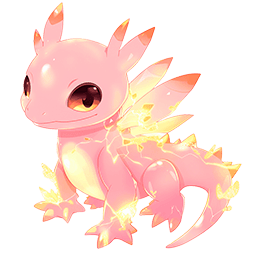
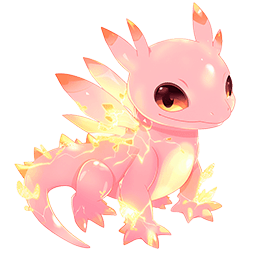
new creatures

diff --git a/front/src/database/locationsLib.js b/front/src/database/locationsLib.js
@@ -185,7 +185,7 @@ export const locationsLib = {
                         enemyCount: [2, 3],
                         enemyLevel: [1, 3],
                         type: 'exploration_battle',
-                        comment: '70%: 2-3 существа (ур. 1-3) | Игрок: до 3 сущ. (макс. ур. 5)'
+                        comment: '70%: 2-3 существа (ур. 1-3)'
                     }
                 },
                 {
@@ -195,7 +195,7 @@ export const locationsLib = {
                         enemyCount: [2, 2],
                         enemyLevel: [4, 5],
                         type: 'exploration_battle',
-                        comment: '25%: 1 существо + 1 элит (ур. 4-5) | Игрок: до 2 сущ. (макс. ур. 7)'
+                        comment: '25%: 1 существо + 1 элит (ур. 4-5)'
                     }
                 },
                 {
@@ -205,7 +205,7 @@ export const locationsLib = {
                         enemyCount: [4, 4],
                         enemyLevel: [2, 4],
                         type: 'exploration_battle',
-                        comment: '25%: 1 существо + 1 элит (ур. 4-5) | Игрок: до 2 сущ. (макс. ур. 7)'
+                        comment: '25%: 1 существо + 1 элит (ур. 4-5)'
                     }
                 },
             ]
@@ -249,7 +249,7 @@ export const locationsLib = {
                         enemyCount: [2, 3],
                         enemyLevel: [1, 3],
                         type: 'exploration_battle',
-                        comment: '70%: 2-3 существа (ур. 1-3) | Игрок: до 3 сущ. (макс. ур. 5)'
+                        comment: '70%: 2-3 существа (ур. 1-3)'
                     }
                 },
                 {
@@ -259,7 +259,8 @@ export const locationsLib = {
                         enemyCount: [2, 2],
                         enemyLevel: [4, 5],
                         type: 'exploration_battle',
-                        comment: '25%: 1 существо + 1 элит (ур. 4-5) | Игрок: до 2 сущ. (макс. ур. 7)'
+                        comment: '25%: 1 существо + 1 элит (ур. 4-5)',
+                        enemies: [{rarity: 'rare'}]
                     }
                 },
                 {
@@ -269,7 +270,8 @@ export const locationsLib = {
                         enemyCount: [4, 4],
                         enemyLevel: [2, 4],
                         type: 'exploration_battle',
-                        comment: '25%: 1 существо + 1 элит (ур. 4-5) | Игрок: до 2 сущ. (макс. ур. 7)'
+                        comment: '5%: 4 существа элит (ур. 2-4)',
+                        enemies: [{rarity: 'rare'},{rarity: 'rare'},{rarity: 'rare'},{rarity: 'rare'}]
                     }
                 },
             ]
@@ -302,7 +304,7 @@ export const locationsLib = {
                         enemyCount: [4, 5],
                         enemyLevel: [6, 8],
                         type: 'exploration_battle',
-                        comment: '60%: 4-5 существ (ур. 6-8) | Игрок: до 5 сущ. (макс. ур. 10)'
+                        comment: '60%: 4-5 существ (ур. 6-8)'
                     }
                 },
                 {
@@ -312,7 +314,7 @@ export const locationsLib = {
                         enemyCount: [3, 3],
                         enemyLevel: [9, 10],
                         type: 'exploration_battle',
-                        comment: '30%: 3 элита (ур. 9-10) | Игрок: до 4 сущ. (макс. ур. 12)'
+                        comment: '30%: 3 элита (ур. 9-10)'
                     }
                 },
                 {
@@ -322,7 +324,7 @@ export const locationsLib = {
                         enemyCount: [1, 1],
                         enemyLevel: [12, 12],
                         type: 'exploration_battle',
-                        comment: '10%: 1 уникальный (ур. 12) | Игрок: до 2 сущ. (макс. ур. 15)'
+                        comment: '10%: 1 уникальный (ур. 12)'
                     }
                 },
             ]
@@ -363,7 +365,7 @@ export const locationsLib = {
                         enemyCount: [3, 4],
                         enemyLevel: [3, 5],
                         type: 'exploration_battle',
-                        comment: '60%: 3-4 существа (ур. 3-5) | Игрок: до 4 сущ. (макс. ур. 7)'
+                        comment: '60%: 3-4 существа (ур. 3-5)'
                     }
                 },
                 {
@@ -373,7 +375,7 @@ export const locationsLib = {
                         enemyCount: [2, 2],
                         enemyLevel: [6, 6],
                         type: 'exploration_battle',
-                        comment: '30%: 2 элита (ур. 6) | Игрок: до 3 сущ. (макс. ур. 8)'
+                        comment: '30%: 2 элита (ур. 6)'
                     }
                 },
                 {
@@ -383,7 +385,7 @@ export const locationsLib = {
                         enemyCount: [3, 3],
                         enemyLevel: [3, 7],
                         type: 'exploration_battle',
-                        comment: '10%: 1 сильный + 2 обычных (ур. 7/3) | Игрок: до 3 сущ. (макс. ур. 9)'
+                        comment: '10%: 1 сильный + 2 обычных (ур. 7/3)'
                     }
                 },
             ]
@@ -420,7 +422,7 @@ export const locationsLib = {
                         enemyCount: [5, 6],
                         enemyLevel: [11, 13],
                         type: 'exploration_battle',
-                        comment: '50%: 5-6 существ (ур. 11-13) | Игрок: до 6 сущ. (макс. ур. 15)'
+                        comment: '50%: 5-6 существ (ур. 11-13)'
                     }
                 },
                 {
@@ -430,7 +432,7 @@ export const locationsLib = {
                         enemyCount: [4, 4],
                         enemyLevel: [14, 15],
                         type: 'exploration_battle',
-                        comment: '40%: 4 элита (ур. 14-15) | Игрок: до 5 сущ. (макс. ур. 17)'
+                        comment: '40%: 4 элита (ур. 14-15)'
                     }
                 },
                 {
@@ -440,7 +442,7 @@ export const locationsLib = {
                         enemyCount: [1, 1],
                         enemyLevel: [18, 18],
                         type: 'exploration_battle',
-                        comment: '10%: 1 уникальный (ур. 18) | Игрок: до 3 сущ. (макс. ур. 20)'
+                        comment: '10%: 1 уникальный (ур. 18)'
                     }
                 },
             ]
@@ -473,7 +475,7 @@ export const locationsLib = {
                         enemyCount: [5, 6],
                         enemyLevel: [20, 22],
                         type: 'exploration_battle',
-                        comment: '50%: 5-6 существ (ур. 20-22) | Игрок: до 6 сущ. (макс. ур. 24)'
+                        comment: '50%: 5-6 существ (ур. 20-22)'
                     }
                 },
                 {
@@ -483,7 +485,7 @@ export const locationsLib = {
                         enemyCount: [4, 4],
                         enemyLevel: [23, 24],
                         type: 'exploration_battle',
-                        comment: '40%: 4 уникальных (ур. 23-24) | Игрок: до 5 сущ. (макс. ур. 26)'
+                        comment: '40%: 4 уникальных (ур. 23-24)'
                     }
                 },
                 {
@@ -493,7 +495,7 @@ export const locationsLib = {
                         enemyCount: [1, 1],
                         enemyLevel: [25, 25],
                         type: 'exploration_battle',
-                        comment: '10%: 1 легендарный (ур. 25) | Игрок: до 3 сущ. (макс. ур. 28)'
+                        comment: '10%: 1 легендарный (ур. 25)'
                     }
                 },
             ]
@@ -528,7 +530,7 @@ export const locationsLib = {
                         enemyCount: [5, 5],
                         enemyLevel: [13, 15],
                         type: 'exploration_battle',
-                        comment: '40% | 5 существ | ур. 13-15| игрок: до 5 сущ., макс. ур. 17'
+                        comment: '40% | 5 существ | ур. 13-15'
                     }
                 },
                 {
@@ -538,7 +540,7 @@ export const locationsLib = {
                         enemyCount: [6, 6],
                         enemyLevel: [14, 16],
                         type: 'exploration_battle',
-                        comment: '40% | 6 существ | ур. 14-16| игрок: до 6 сущ., макс. ур. 18'
+                        comment: '40% | 6 существ | ур. 14-16'
                     }
                 },
                 {
@@ -548,7 +550,7 @@ export const locationsLib = {
                         enemyCount: [1, 1],
                         enemyLevel: [15, 17],
                         type: 'exploration_battle',
-                        comment: '20% | 4 существа| ур. 15-17| игрок: до 4 сущ., макс. ур. 19'
+                        comment: '20% | 4 существа| ур. 15-17'
                     }
                 },
             ]
@@ -581,7 +583,7 @@ export const locationsLib = {
                         enemyCount: [6, 6],
                         enemyLevel: [26, 28],
                         type: 'exploration_battle',
-                        comment: '70%: 6 существ (ур. 26-28) | Игрок: до 6 сущ. (макс. ур. 30)'
+                        comment: '70%: 6 существ (ур. 26-28)'
                     }
                 },
                 {
@@ -591,7 +593,7 @@ export const locationsLib = {
                         enemyCount: [3, 3],
                         enemyLevel: [29, 29],
                         type: 'exploration_battle',
-                        comment: '25%: 3 легендарных (ур. 29) | Игрок: до 4 сущ. (макс. ур. 30)'
+                        comment: '25%: 3 легендарных (ур. 29)'
                     }
                 },
                 {
@@ -601,7 +603,7 @@ export const locationsLib = {
                         enemyCount: [1, 1],
                         enemyLevel: [30, 30],
                         type: 'exploration_battle',
-                        comment: '5%: 1 финальный босс (ур. 30) | Игрок: до 6 сущ. (макс. ур. 30)'
+                        comment: '5%: 1 финальный босс (ур. 30)'
                     }
                 },
             ]

diff --git a/front/src/database/creaturesLib.js b/front/src/database/creaturesLib.js
@@ -13,7 +13,8 @@ creatures.forEach((creature, index) => {
     if (!creature.evolutionGroup) {
         creature.evolutionGroup = creature.number
     }
-    creaturesLib[creature.element + '-' + creature.shape + '-' + creature.emotion] = creature
+    const rarity = creature.rarity || 'common'
+    creaturesLib[creature.element + '-' + creature.shape + '-' + creature.emotion + '-' + rarity] = creature
 })
 
 for (const actionIndex of creaturesActions.keys()) {
@@ -87,9 +88,9 @@ export function getTeam2(direction, control, creatures) {
     })
 }
 
-export function getCreature(element, shape, emotion, level) {
+export function getCreature(element, shape, emotion, level, rarity = 'common') {
     // нужно копирование, иначе при повторении существ, будет один объект
-    const creature = Object.assign({}, creaturesLib[element + '-' + shape + '-' + emotion]);
+    const creature = Object.assign({}, creaturesLib[element + '-' + shape + '-' + emotion + '-' + rarity]);
     // creature.name = element + '/' + shape + '/' + emotion
     creature.texture = creature.number;
     creature.level = level
@@ -240,10 +241,10 @@ export function testTeam(level, direction, control, limit) {
 
 // Тест 1: Базовый урон (ДД vs Танк)
 export function testBaseDamagePassionvsRage() {
-    const rage = Object.assign({}, creaturesLib['fire' + '-' + 'beast' + '-' + 'rage']);
-    const passion = Object.assign({}, creaturesLib['fire' + '-' + 'beast' + '-' + 'passion']);
-    const passion2 = Object.assign({}, creaturesLib['fire' + '-' + 'beast' + '-' + 'passion']);
-    const hope = Object.assign({}, creaturesLib['fire' + '-' + 'beast' + '-' + 'hope']);
+    const rage = Object.assign({}, creaturesLib['fire' + '-' + 'beast' + '-' + 'rage' + '-' + 'common']);
+    const passion = Object.assign({}, creaturesLib['fire' + '-' + 'beast' + '-' + 'passion' + '-' + 'common']);
+    const passion2 = Object.assign({}, creaturesLib['fire' + '-' + 'beast' + '-' + 'passion' + '-' + 'common']);
+    const hope = Object.assign({}, creaturesLib['fire' + '-' + 'beast' + '-' + 'hope' + '-' + 'common']);
     rage.actions = []
     passion2.actions = []
     hope.actions = [
@@ -439,8 +440,8 @@ export function testBaseDamagePassionvsRage() {
 
 // Тест 1: Базовый урон (ДД vs Танк)
 export function testEffects(effect, chanceEffect, duration) {
-    const rage1 = Object.assign({}, creaturesLib['fire' + '-' + 'beast' + '-' + 'rage']);
-    const rage2 = Object.assign({}, creaturesLib['fire' + '-' + 'beast' + '-' + 'rage']);
+    const rage1 = Object.assign({}, creaturesLib['fire' + '-' + 'beast' + '-' + 'rage' + '-' + 'common']);
+    const rage2 = Object.assign({}, creaturesLib['fire' + '-' + 'beast' + '-' + 'rage' + '-' + 'common']);
     rage1.actions = [
         {
             "name": "Свирепый укус с эффектом",

diff --git a/front/src/components/game/BattleQueueHorizontal.vue b/front/src/components/game/BattleQueueHorizontal.vue
@@ -122,7 +122,7 @@ const clearHoverCreature = () => {
                         :src="creature.texture ? './assets/creatures/basic/' + creature.texture + '.png' : 'https://img.league17.ru/pub/mnst/norm/full/502.png'"
                         :alt="creature.name"
                         class="creature-image"
-                        :class="{mirror: creature.direction === 'left'}"
+                        :class="{mirror: creature.direction === 'right'}"
                     />
                     <div class="status-indicators">
                         <QIcon

diff --git a/front/src/game/classes/battle/CreateBattle.js b/front/src/game/classes/battle/CreateBattle.js
@@ -121,9 +121,9 @@ function getExplorationEnemies(config) {
     return getTeam2('left', new HardAI(), creatures)
 }
 
-function createNewCreature(element, shape, emotion, level) {
+function createNewCreature(element, shape, emotion, level, rarity = 'common') {
 
-    let newCreature = Object.assign({}, creaturesLib[element + '-' + shape + '-' + emotion])
+    let newCreature = Object.assign({}, creaturesLib[element + '-' + shape + '-' + emotion + '-' + rarity])
 
     // Присваиваем рандомный ИД
     newCreature.id = crypto.randomUUID();

diff --git a/front/src/components/game/BattleQueueVertical.vue b/front/src/components/game/BattleQueueVertical.vue
@@ -120,7 +120,7 @@ const clearHoverCreature = () => {
                             :src="'./assets/creatures/basic/' + (creature.number || creature.texture) + '.png'"
                             :alt="creature.name"
                             class="creature-image"
-                            :class="{mirror: creature.direction === 'right'}"
+                            :class="{mirror: creature.direction === 'left'}"
                         />
                     </q-avatar>
                 </q-item-section>

diff --git a/front/src/game/scenes/Preloader.js b/front/src/game/scenes/Preloader.js
@@ -69,6 +69,15 @@ export class Preloader extends Scene {
             "073",
             "076",
             "079",
+            "082",
+            "085",
+            "088",
+            "091",
+            "094",
+            "097",
+            "100",
+            "103",
+            "106",
         ]
         for (const basicCreature of basicCreatures) {
             this.load.image(basicCreature + '_stand', 'creatures/basic/' + basicCreature + '.png')

diff --git a/front/src/store/craft.js b/front/src/store/craft.js
@@ -54,7 +54,7 @@ export const useCraftStore = defineStore('craft', {
                 return null
             }
 
-            return creaturesLib[this.selectedElement.code + '-' + this.selectedShape.code + '-' + this.selectedEmotion.code]
+            return creaturesLib[this.selectedElement.code + '-' + this.selectedShape.code + '-' + this.selectedEmotion.code + '-' + 'common']
         },
     },
     actions: {

diff --git a/front/src/components/game/CreatureCard.vue b/front/src/components/game/CreatureCard.vue
@@ -131,7 +131,7 @@ const src = computed(() => './assets/creatures/basic/' + (props.creature.number 
                 :src="src"
                 :alt="creature.name"
                 class="col"
-                :class="{ mirror: creature.direction === 'right' }"
+                :class="{ mirror: creature.direction === 'left' }"
             />
 
             <!-- Эффекты справа -->

diff --git a/front/src/components/game/BattleStartDialogCreature.vue b/front/src/components/game/BattleStartDialogCreature.vue
@@ -52,7 +52,7 @@ defineProps({
                     :src="'./assets/creatures/basic/' + creature.number + '.png'"
                     :alt="creature.name"
                     class="creature-image"
-                    :class="{mirror: direction === 'right'}"
+                    :class="{mirror: direction === 'left'}"
                 />
             </q-avatar>
         </q-item-section>

diff --git a/front/src/components/game/CraftRightDrawer.vue b/front/src/components/game/CraftRightDrawer.vue
@@ -130,8 +130,8 @@ function shardClass(shard) {
     return `shard-${shard.rarity}`;
 }
 
-function getBaseCreature(element, shape, emotion) {
-    return creaturesLib[element + '-' + shape + '-' + emotion]
+function getBaseCreature(element, shape, emotion, rarity = 'common') {
+    return creaturesLib[element + '-' + shape + '-' + emotion + '-' + rarity]
 }
 
 </script>

diff --git a/front/src/game/sprites/creatures/Monster2.js b/front/src/game/sprites/creatures/Monster2.js
@@ -33,8 +33,7 @@ export default class Monster2 extends Phaser.GameObjects.Sprite {
         this.direction = direction;
 
         this.stopAllTweens();
-        // this.setFlipX(direction === 'left');
-        this.setFlipX(direction !== 'left'); //TODO убрать
+        this.setFlipX(direction === 'left');
 
         switch (action) {
             case 'idle':
